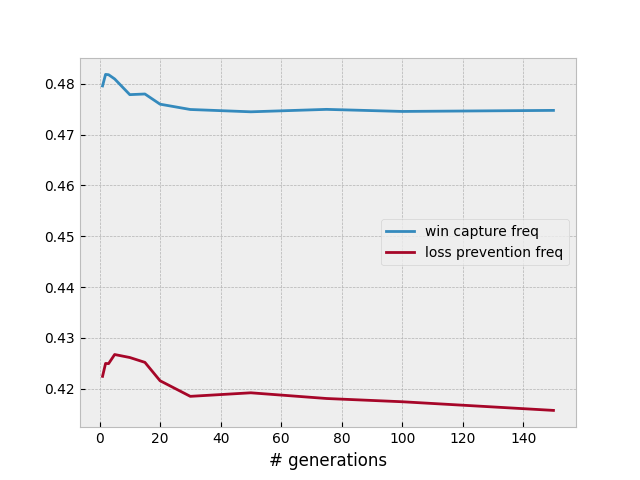
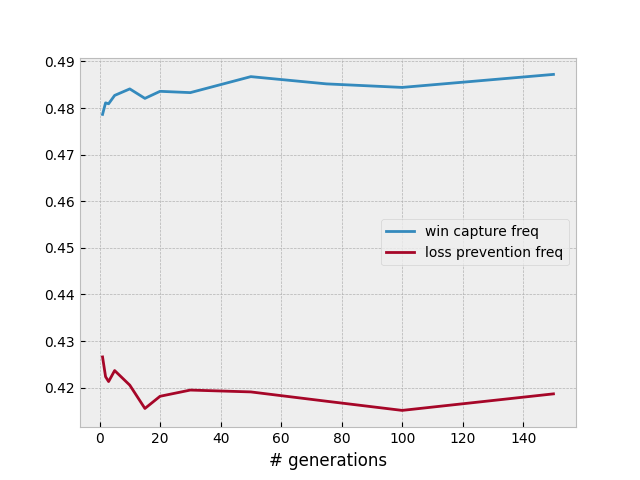
graphed win cap and loss prev

diff --git a/genetic_alg_folder/test_genetic_alg.py b/genetic_alg_folder/test_genetic_alg.py
@@ -7,12 +7,12 @@ import matplotlib.pyplot as plt
 
 gen_alg = GeneticAlgorithm(25)
 gens = [1,2,3,5,10,15,20,30,50,75,100,150]
-
-#plot_1 = []
-#plot_2 = []
+'''
+plot_1 = []
+plot_2 = []
 plot_3 = []
 plot_4 = []
-'''
+
 gen_1 = gen_alg.copy(gen_alg.all_players)
 prev_gen = gen_alg.copy(gen_alg.all_players)
 for gen in gens:
@@ -21,7 +21,7 @@ for gen in gens:
         gen_alg.make_new_gen('rr', 'cut', 0)
     all_players = gen_alg.copy(gen_alg.all_players)
     gen_alg.round_robin(all_players)
-    gen_n = gen_alg.copy(gen_alg.all_players[:5])
+    gen_n = gen_alg.copy(all_players[:5])
     gen_n_2 = gen_alg.copy(gen_n)
 
     gen_alg.fight(gen_1, gen_n)
@@ -36,12 +36,14 @@ plt.plot(gens, plot_2, label='vs prev gen')
 plt.xlabel('# generations')
 plt.legend(loc='best')
 plt.savefig('plots_1_and_2.png')
-'''
+
 
 for gen in gens:
     while gen_alg.generation != gen:
         gen_alg.make_new_gen('rr', 'cut', 0)
-    wc_lp = gen_alg.wc_lp_for_all(gen_alg.all_players)
+    all_players = gen_alg.copy(gen_alg.all_players)
+    gen_alg.round_robin(all_players)
+    wc_lp = gen_alg.wc_lp_for_all(all_players[:5])
     plot_3.append(wc_lp['win_cap'])
     plot_4.append(wc_lp['loss_prev'])
 
@@ -52,7 +54,6 @@ plt.xlabel('# generations')
 plt.legend(loc='best')
 plt.savefig('plots_3_and_4.png')
 
-'''
 gen_alg = GeneticAlgorithm(25, 5)
 gen_1 = list(gen_alg.all_players)
 gen_alg.make_n_gens(20)
@@ -88,3 +89,4 @@ print(scores)
 # gen 21 vs gen 41: 38 - 47 and 39 - 57 and 20 - 78
 # gen 1 vs gen 71: 39 - 51
 '''
+

diff --git a/test.py b/test.py
@@ -3,6 +3,6 @@ sys.path.append('genetic_alg_folder')
 from genetic_alg import *
 
 gen_alg = GeneticAlgorithm(8)
-print(f'gen 1: {gen_alg.win_cap_loss_prev_freq(gen_alg.all_players[0])}')
-gen_alg.make_n_gens(10, 'rr', 'cut', 0)
-print(f'gen 11: {gen_alg.win_cap_loss_prev_freq(gen_alg.all_players[0])}')
+
+state_1 = '111020002'
+print(gen_alg.winnable(state_1))

diff --git a/genetic_alg_folder/genetic_alg.py b/genetic_alg_folder/genetic_alg.py
@@ -268,7 +268,7 @@ class GeneticAlgorithm():
                 loss_chances += 1
                 if self.loss_prevented(state, choice):
                     loss_prevs += 1
-        
+
         return {'win_cap':win_caps/win_chances, 'loss_prev':loss_prevs/loss_chances}
     
     def wc_lp_for_all(self, player_group):
